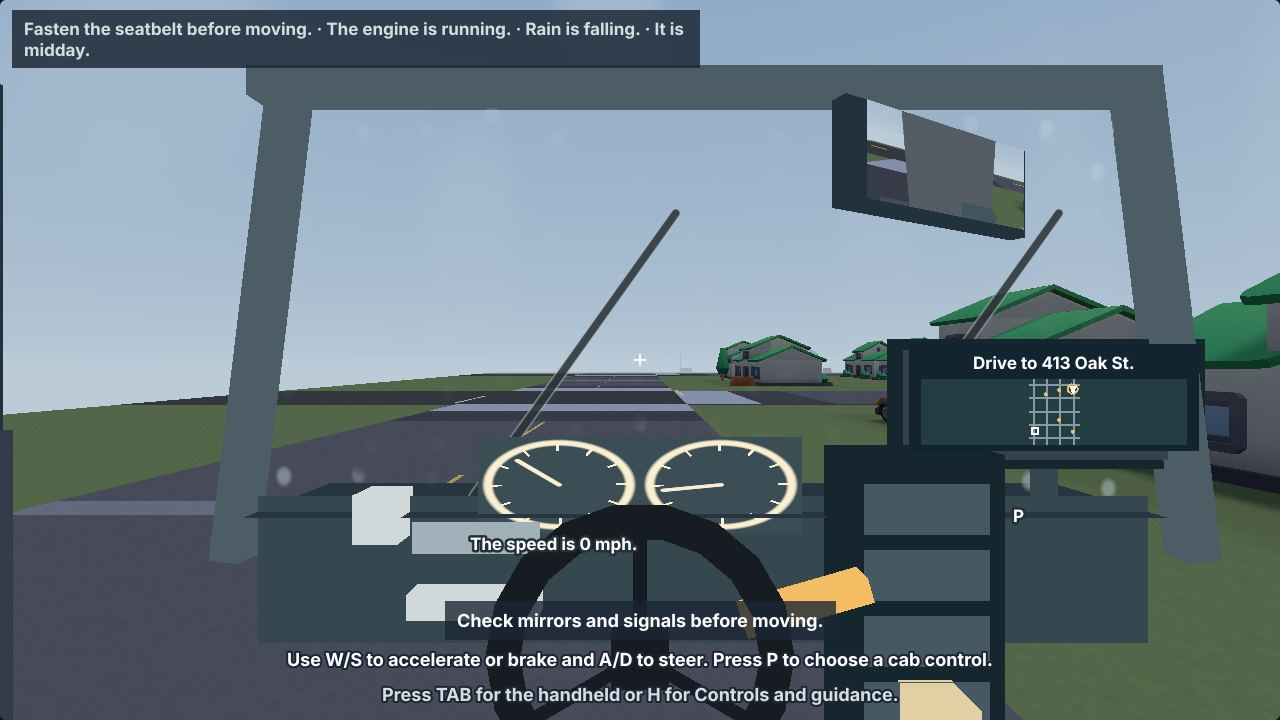
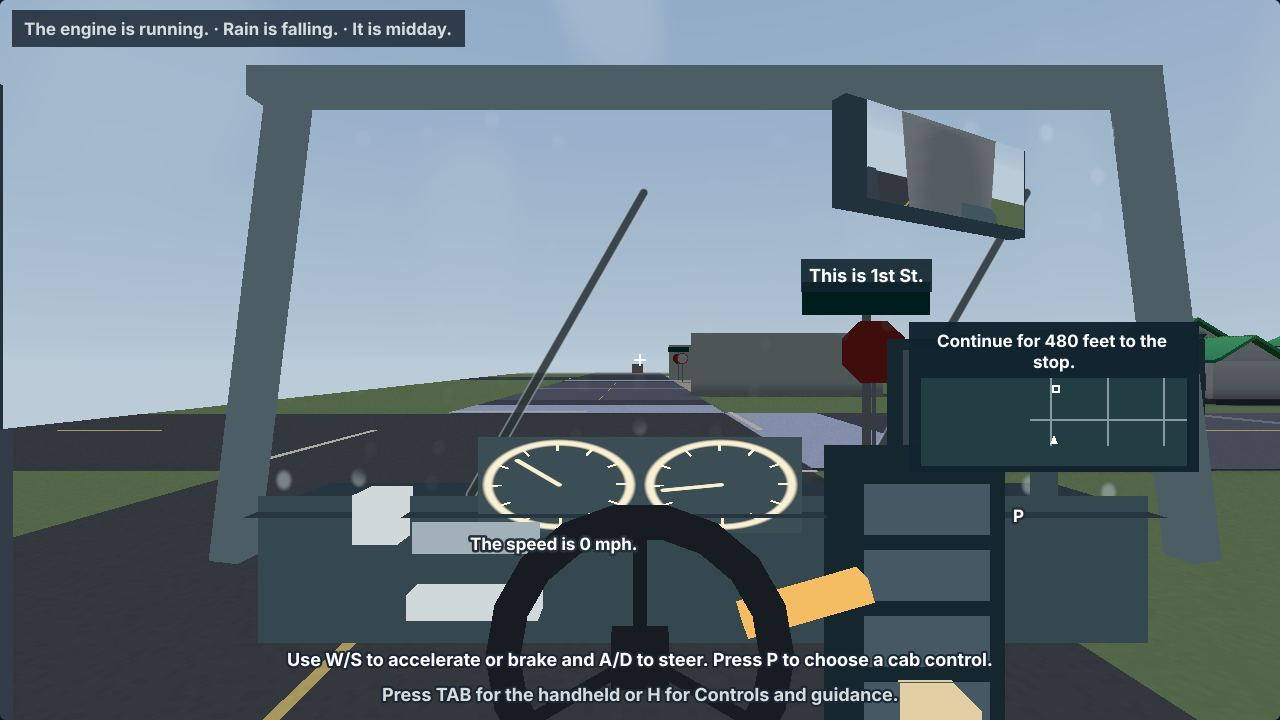
B-46: sat nav and junction-sign views in the review set; set 8 recaptured
Claude-Session: https://claude.ai/code/session_013RkJHfRG88ySpPHhQEhu9D

diff --git a/test/tools/review-set.js b/test/tools/review-set.js
@@ -83,7 +83,20 @@ const VIEWS = [
     const along = Math.min(6, d * 0.6), px = pt.x + dx / d * along - dz / d * 2.5, pz = pt.z + dz / d * along + dx / d * 2.5;
     Object.assign(m.player, { x: px, z: pz, yaw: Math.atan2(pt.x - px, -(pt.z - pz)), pitch: 0.05 }); s.sync(); return true;
   }],
-  ['satnav', 'The sat nav with the route', (s) => { if (!s.satnav) return false; s.model.mode = 'cab'; s.sync(); return true; }],
+  ['satnav', 'The sat nav with the route', (s) => {
+    // C-31: the dash screen, on the route to the first stop (as C-31's own fixed view in test/fpbench.js)
+    const m = s.model; if (!OTR.fpNav || !OTR.fpNav.enabled(m) || !OTR.fpHud || !OTR.fpHud.navigation) return false;
+    m.phase = 'route'; m.departed = m.secured = true; m.paused = false; m.mode = 'cab';
+    const z = m.town && m.town.zs ? m.town.zs[1] + 22 : -20;
+    Object.assign(m.van, { z, yaw: 0, speed: 0, gear: 1, hand: true, belt: true, look: 0 }); m.player.pitch = 0;
+    OTR.fpNav.configure(m); s.sync(); s.refresh(); if (s.hud) s.hud.navAt = -1000; OTR.fpHud.navigation(s); return true;
+  }],
+  ['signs', 'Approaching the first junction: its signs and street names', (s) => {
+    // C-30: the junction signs, from the cab as you come up to the first junction
+    const m = s.model; if (!OTR.fpSigns || !m.junctions || !m.junctions.length) return false;
+    const j = m.junctions[0]; m.mode = 'cab'; m.player.pitch = 0;
+    Object.assign(m.van, { x: j.x + 2.5, z: j.z + 17, yaw: 0, speed: 0, look: 0, hand: true }); s.sync(); return true;
+  }],
   ['night', 'Driving at night with headlights', (s) => {
     const m = s.model; if (!OTR.fpLighting || !m.routePlan) return false;          // C-25: time of day from the route plan
     m.routePlan.timeOfDay = 'night'; m.mode = 'cab'; m.van.gear = 1; m.van.look = 0; m.player.pitch = 0; m.van.headlights = true; s.sync(); return true;

diff --git a/docs/COORDINATION.md b/docs/COORDINATION.md
@@ -345,7 +345,7 @@ items here for each agent.
 | B-41 | Claude | **An old save still works:** a node test that loads saves as they were before milestones 7 and 8 (no town seed, no aids code, no `route.passed`, older workday records) and checks they load, start and finish a workday, show in the record and the drive review, and report to the LMS; fix what does not. | done |
 | B-42 | Claude | **Run the launch check on SCORM 2004 too:** `test/scorm-launch.js --2004` with the 2004 API (`API_1484_11`, `cmi.suspend_data`, `cmi.learner_name`), so both packages IT may upload are launched in a frame; fold both into the release-candidate pass in `docs/READINESS.md`. | done |
 | B-43 | Claude | **A trainer's one-page quick start:** from `docs/PILOT-GUIDE.md`, one printable page for the person running a session (start a workday, the aids by day, reading the drive map and the record, what to do when a PC is slow), in English first; ask the owner in "Questions for the owner" which languages it needs. | done |
-| B-46 | Claude | **Review-set views for the sat nav and a signed junction:** `test/tools/review-set.js` still says "not built yet" for `satnav` (it looks for `s.satnav`); point it at C-31's dash screen, add a `signs` view at the first signed junction, and capture both into set 8 with `compare.md`. | todo |
+| B-46 | Claude | **Review-set views for the sat nav and a signed junction:** `test/tools/review-set.js` still says "not built yet" for `satnav` (it looks for `s.satnav`); point it at C-31's dash screen, add a `signs` view at the first signed junction, and capture both into set 8 with `compare.md`. | done |
 | B-47 | Claude | **The drive map's legend for milestone 8:** signs, red lights and wrong turns (`drive.route`) on the 3D drive map: check each new type gets the right pin shape and legend line, with a test per type, and that the legend still fits in Tamil with larger text. | todo |
 | B-44 | Codex | **Asset fallback counters:** count recovered High-to-Low model fallbacks in diagnostics so the quality gate and SCORM checks can detect a missing source file. From the 18 October Codex inbox; separate branch after C-30. | done |
 | B-45 | Codex | **Delivery house fronts:** retain fixed doors, paths, numbers and collision targets, while fitting optional model facades on High; keep Low playable and document the tradeoff. From Claude’s set-8 review question. | todo (after C-31) |
@@ -380,6 +380,7 @@ Questions marked `needs-owner` on GitHub are listed here too. Work on the rest c
 
 ## Log
 
+- **18 October 2026, Claude — B-46:** the review set's `satnav` view now shows C-31's dash screen on the way to the first stop (it looked for an old `s.satnav`), and a new `signs` view comes up to the first junction. Set 8 recaptured (`views/index.md`, `compare.md`); checklist item 8 asks the owner whether the dash screen hides signs (at the first junction it covers part of the stop sign on the right). C-32 is still in progress.
 - **18 October 2026, Claude — B-43:** `docs/QUICK-START.md`, one printable page for the person running a session: before trainees arrive (a PC check, accounts, rules and aids), the hour's plan, a minute on the cab (mirrors, gears, the sat nav, road signs and J), reading the drive map's pin shapes, and the five commonest problems. `docs/PILOT-GUIDE.md` now covers the sat nav and road signs (C-30, C-31) and red lights on the map, and points to the page. Asked the owner which languages trainers need it in; English until then. C-32 has not moved for three hours.
 - **18 October 2026, Claude — B-42:** `test/scorm-launch.js --2004` launches the SCORM 2004 package with the 2004 API (`API_1484_11`, `cmi.learner_name`): the learner's name and saved progress are read, all 14 models load at Low and High with none falling back, nothing missing or from outside. Both packages are 208 files. Both launches are now rows of the release-candidate checks in `docs/READINESS.md`; `docs/IT-NOTES.md` says how to run them. C-32 is still in progress.
 - **18 October 2026, Claude — C-31 review:** merged. Node suites, i18n, 81 navigation and 67 sign browser checks, the quality gate (Low 55 calls / 2,432 triangles), 312 cab views in 12 languages at larger text and the `workday-3d` flows pass; `workday-3d-b` failed its golden once in a batch and passed twice since (no message caught; watched on the next review). The sat nav's 7 lines and 4 templates are in 11 languages.

diff --git a/docs/review/set-8/views/compare.md b/docs/review/set-8/views/compare.md
@@ -14,6 +14,8 @@ a set did not have says so.
 | reverse | ![reverse low, set 7](../../set-7/views/reverse-low.jpg) | ![reverse low, set 8](reverse-low.jpg) |
 | stop | ![stop low, set 7](../../set-7/views/stop-low.jpg) | ![stop low, set 8](stop-low.jpg) |
 | doorstep | ![doorstep low, set 7](../../set-7/views/doorstep-low.jpg) | ![doorstep low, set 8](doorstep-low.jpg) |
+| satnav | not in this set | ![satnav low, set 8](satnav-low.jpg) |
+| signs | not in this set | ![signs low, set 8](signs-low.jpg) |
 | night | ![night low, set 7](../../set-7/views/night-low.jpg) | ![night low, set 8](night-low.jpg) |
 | rain | ![rain low, set 7](../../set-7/views/rain-low.jpg) | ![rain low, set 8](rain-low.jpg) |
 
@@ -28,5 +30,7 @@ a set did not have says so.
 | reverse | ![reverse high, set 7](../../set-7/views/reverse-high.jpg) | ![reverse high, set 8](reverse-high.jpg) |
 | stop | ![stop high, set 7](../../set-7/views/stop-high.jpg) | ![stop high, set 8](stop-high.jpg) |
 | doorstep | ![doorstep high, set 7](../../set-7/views/doorstep-high.jpg) | ![doorstep high, set 8](doorstep-high.jpg) |
+| satnav | not in this set | ![satnav high, set 8](satnav-high.jpg) |
+| signs | not in this set | ![signs high, set 8](signs-high.jpg) |
 | night | ![night high, set 7](../../set-7/views/night-high.jpg) | ![night high, set 8](night-high.jpg) |
 | rain | ![rain high, set 7](../../set-7/views/rain-high.jpg) | ![rain high, set 8](rain-high.jpg) |

diff --git a/docs/review/set-8/CHECKLIST.md b/docs/review/set-8/CHECKLIST.md
@@ -16,5 +16,6 @@ one line per item: fine, or what feels wrong. That line goes to the board as the
 | 5 | On the title screen, press Credits | The 3D packs and who made them, with thanks |
 | 6 | Turn on Low graphics (Settings) and drive the same street | Plainer, but the same town and nothing missing that you need to drive |
 | 7 | Turn on larger text, then switch to Tamil or Hindi and look at the cab and the guide (the same fixed views in Tamil with larger text are in `views-ta-large/`) | Everything still fits and is readable; say if the lower part of the cab view feels too full of words |
+| 8 | Drive to the first stop following the sat nav, and stop at the first junction (views `satnav` and `signs`) | The dash screen tells you the next turn and how far; the stop sign and street names are where you expect. Say if the screen hides a sign you need to see (in `signs-high.jpg` it covers part of the stop sign on the right) |
 
 Anything else you notice (looks, sound, confusion, frame rate on your laptop) goes at the bottom.

diff --git a/docs/review/set-8/views/index.md b/docs/review/set-8/views/index.md
@@ -14,7 +14,8 @@ not the frame rate.
 | reverse | Reversing: the rear camera and the guidelines | ![reverse low](reverse-low.jpg) | ![reverse high](reverse-high.jpg) |
 | stop | Parked at the first stop | ![stop low](stop-low.jpg) | ![stop high](stop-high.jpg) |
 | doorstep | At the first door | ![doorstep low](doorstep-low.jpg) | ![doorstep high](doorstep-high.jpg) |
-| satnav | The sat nav with the route | not built yet | not built yet |
+| satnav | The sat nav with the route | ![satnav low](satnav-low.jpg) | ![satnav high](satnav-high.jpg) |
+| signs | Approaching the first junction: its signs and street names | ![signs low](signs-low.jpg) | ![signs high](signs-high.jpg) |
 | night | Driving at night with headlights | ![night low](night-low.jpg) | ![night high](night-high.jpg) |
 | rain | Rain on the windscreen with the wipers on | ![rain low](rain-low.jpg) | ![rain high](rain-high.jpg) |
 | damage | The walk-round damage report | not built yet | not built yet |
